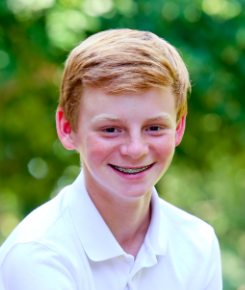
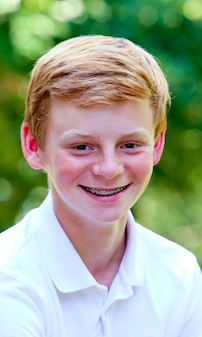
getting up to date before branching

diff --git a/src/main/resources/static/components/aboutPage.html b/src/main/resources/static/components/aboutPage.html
@@ -29,7 +29,7 @@
 
 <section class = "counselorItem">
     <section class="counselorPic">
-        <img src="/images/JackShaw.jpg">
+        <img src="/images/John.png">
     </section>
     <section class="counselorInfo">
         <h2>John - Fletcher School</h2>

diff --git a/templates/aboutPage.html b/templates/aboutPage.html
@@ -29,7 +29,7 @@
 
 <section class = "counselorItem">
     <section class="counselorPic">
-        <img src="/images/JackShaw.jpg">
+        <img src="/images/John.png">
     </section>
     <section class="counselorInfo">
         <h2>John - Fletcher School</h2>

diff --git a/src/main/resources/static/style.css b/src/main/resources/static/style.css
@@ -1693,7 +1693,7 @@ a {
     float: right; }
 
 img {
-  width: 200px; }
+  width: 250px; }
 
 body {
   background-color: #BAB9A5;

diff --git a/scss/_about.scss b/scss/_about.scss
@@ -12,5 +12,5 @@
 }
 
 img{
-    width: 200px;
+    width: 250px;
 }
